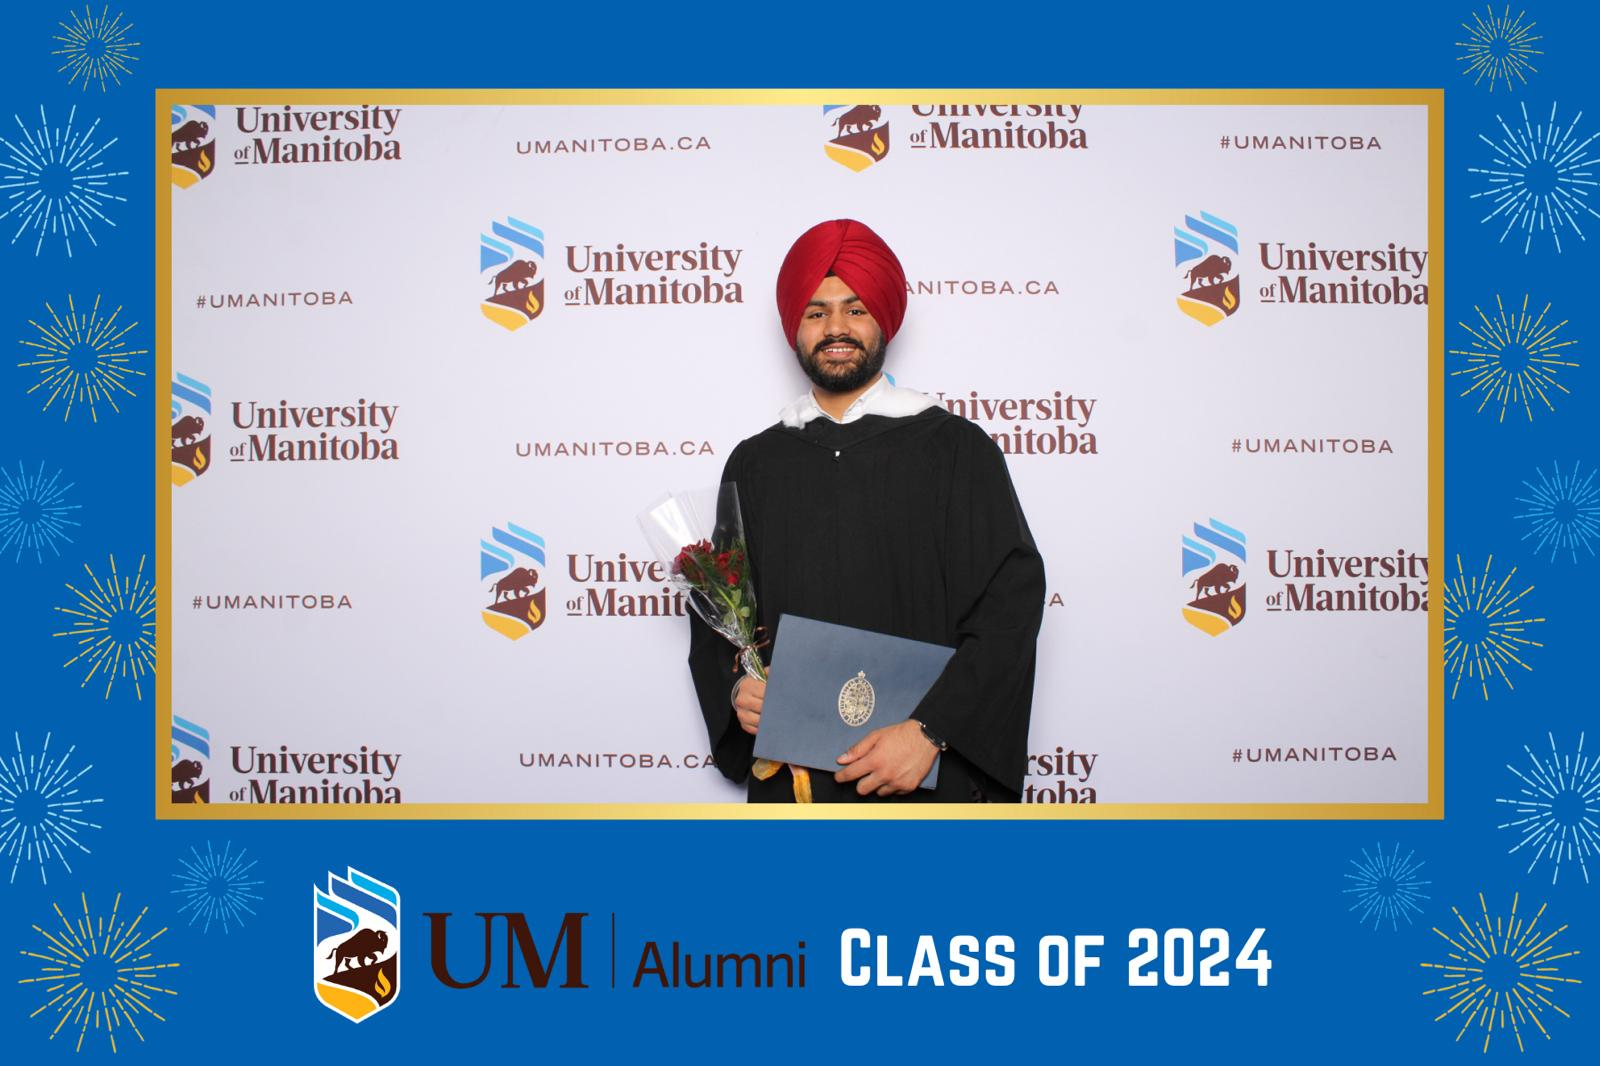
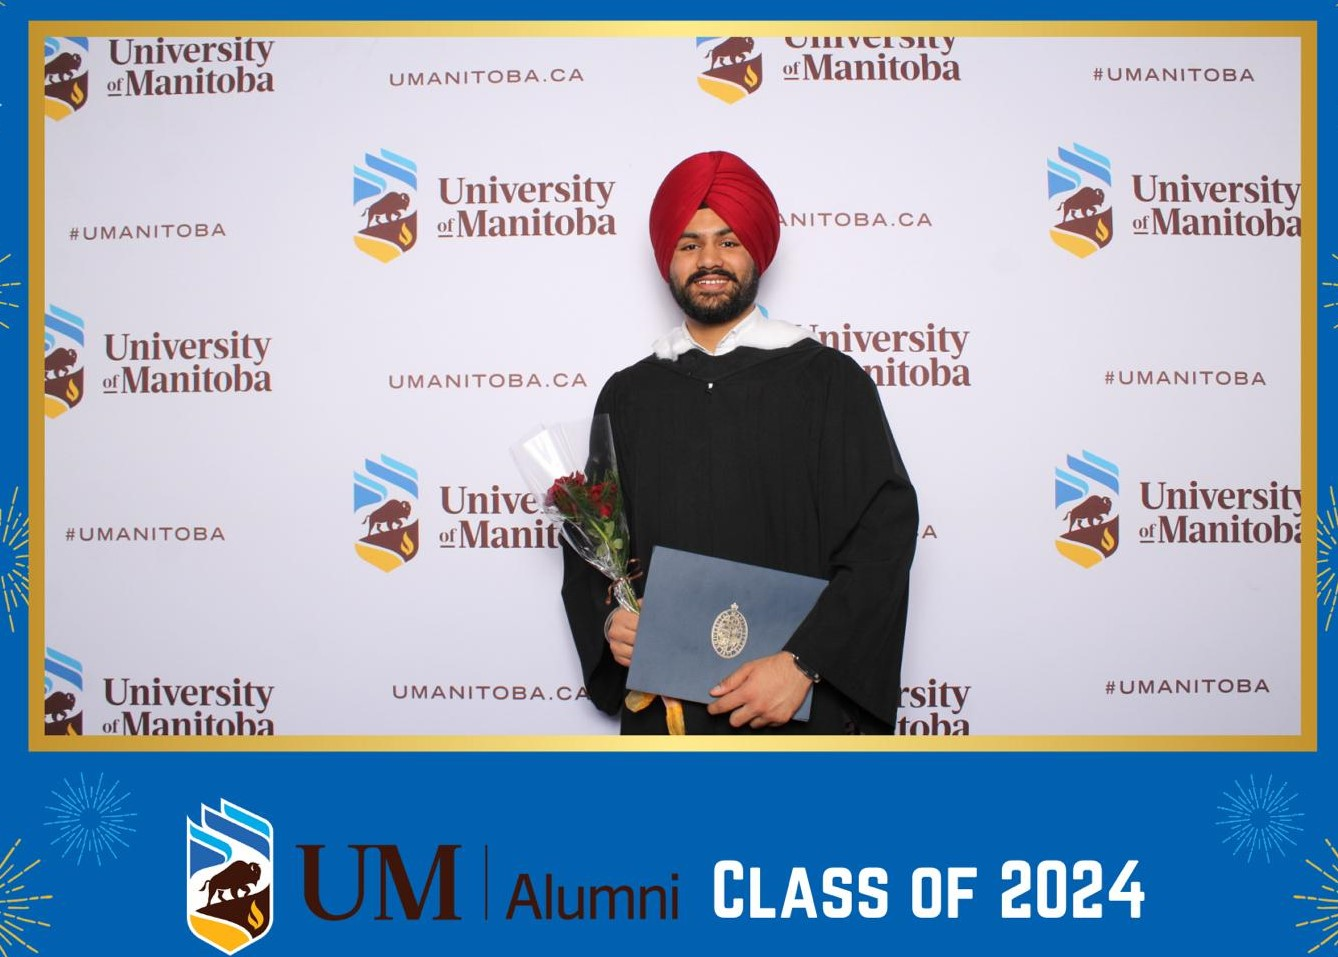
Fixed spacing around the education section image

diff --git a/app/globals.css b/app/globals.css
@@ -275,30 +275,10 @@ html {
   background-color: #222230;
 }
 
-
-
-/* .cross-fade img {
-  position: absolute;
-  opacity: 1;
-  transition: opacity 0.25s ease-in-out;
-}  */
-/*
-.cross-fade img:first-child {
-  opacity: 1;
-}
-
-.cross-fade:hover img {
-  opacity: 1;
-}
-
-.cross-fade:hover img:first-child {
-  opacity: 0;
-} */
-
 .cross-fade-container {
   position: relative;
-  width: 500px; /* Set the width */
-  height: 300px; /* Set the height */
+  width: 30rem; 
+  height: 20rem; 
 }
 
 .cross-fade-container img {

diff --git a/app/components/Education.tsx b/app/components/Education.tsx
@@ -33,7 +33,7 @@ function Education() {
         transition={{ duration: 1 }}
         variants={fadeInUpVariants}
       >
-        <div className="cross-fade-container">
+        <div className="cross-fade-container me-9">
           <Image
             src="/images/uofm-image.png"
             alt="University of Manitoba"
